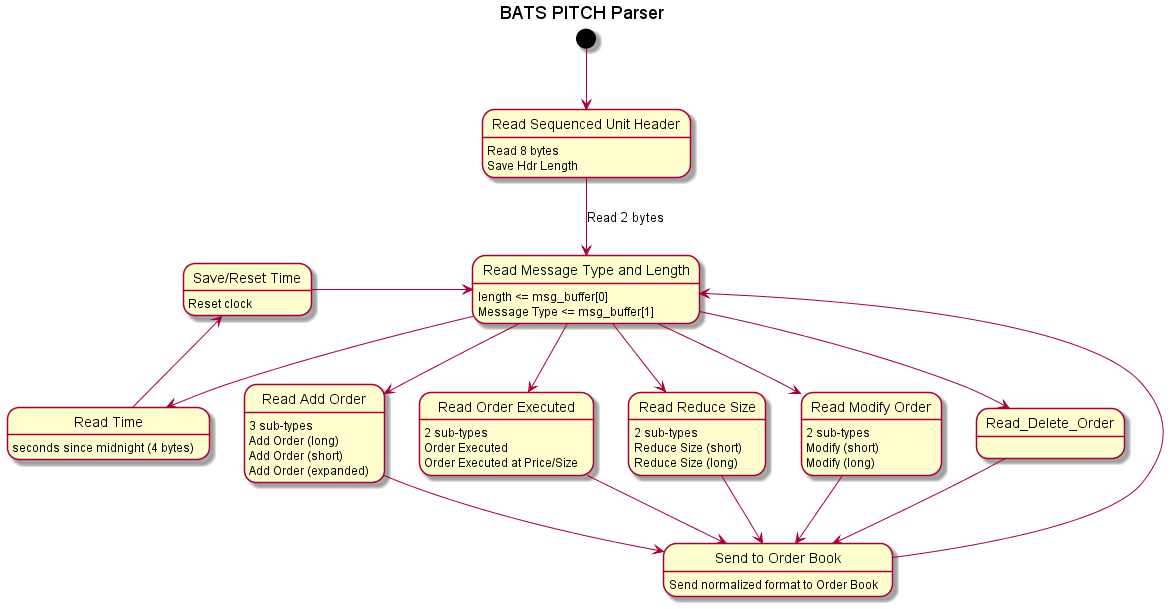
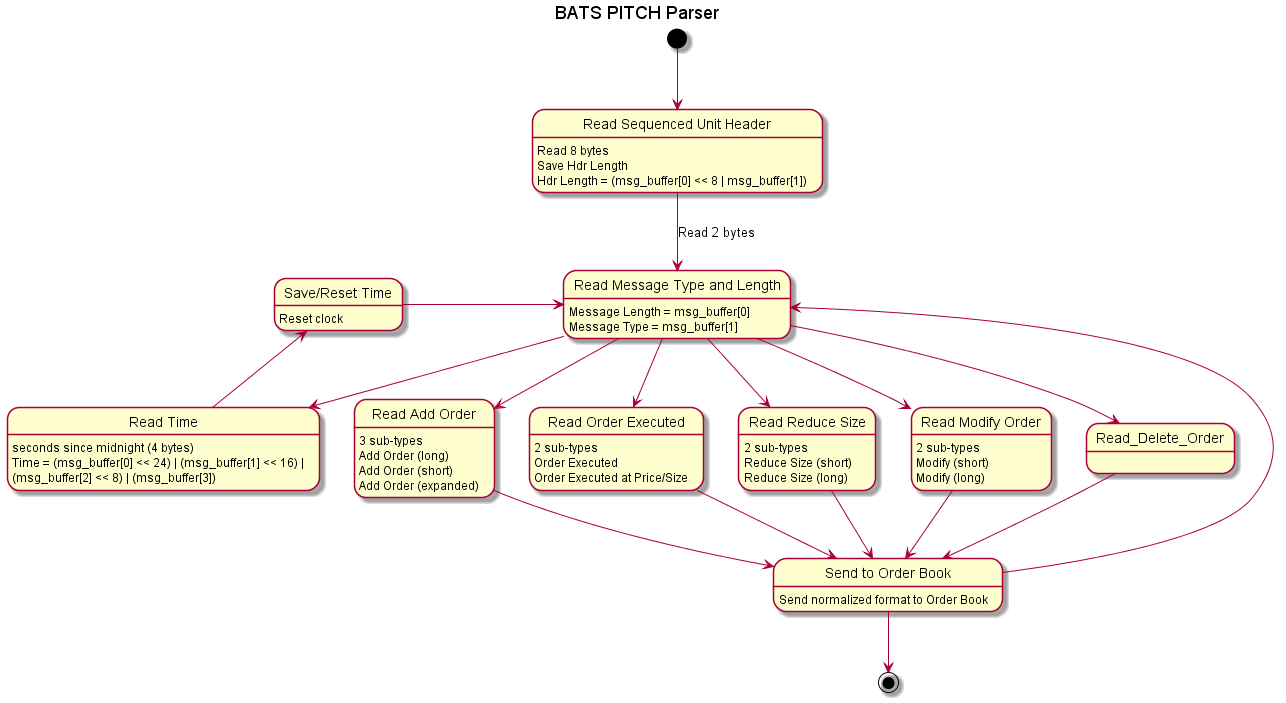
Test

diff --git a/README.md b/README.md
@@ -1,5 +1,11 @@
 # arty_bats
 Parse and Normalize BATS Multicast PITCH data using LabVIEW FPGA and the Arty Artix-7 A100T Board
 
+# High Level Diagram
+![High Level Diagram](High_Level.png)
+
+
 # State Machine for BATS PITCH Parser
 ![BATS PITCH Parser](BATS_PITCH_Parser.png)
+
+* Diagrams generated using PlantUML (http://plantuml.com)
